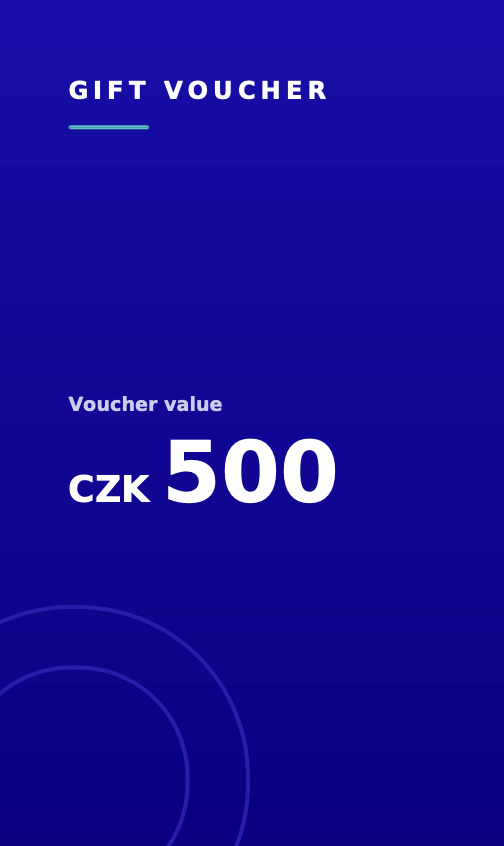
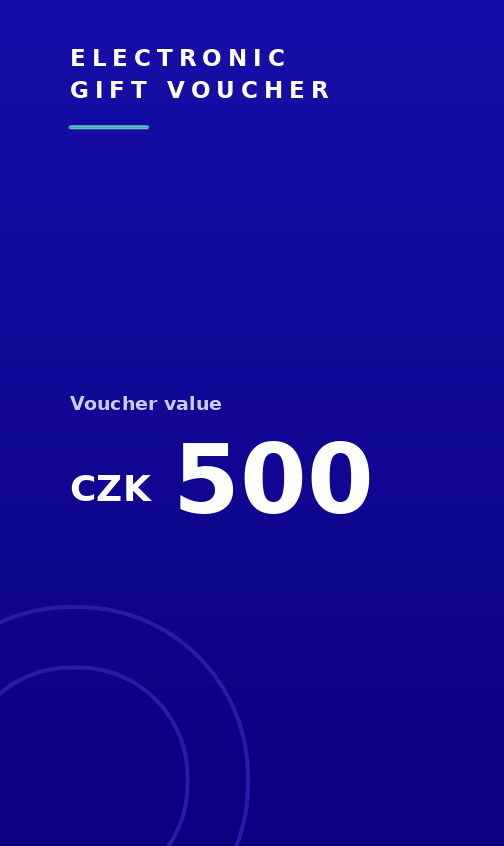
tweaked gift voucher demo data fixtures
- added a standalone electronic gift voucher (VOUCHER-E300) and a combined main variant (VOUCHER-X)
  with an electronic and a printed variant, so every delivery options case on the product detail has demo data
- the combined main variant keeps the default basic product type, the type of a main variant is resolved from its variants
- gift voucher constants are named by their role (main variant, variant, standalone) and every voucher
  has a reference resolved from a single catnum-to-reference map
- gift voucher descriptions no longer mention the email delivery, they are shared with the printed vouchers
- voucher images are assigned by product reference instead of product IDs that shifted with the new products,
  their titles distinguish electronic and printed vouchers and the main cards show the value range
- CategoryTest expects the new products in the Electronics category listing

diff --git a/app/src/DataFixtures/Demo/ProductDataFixture.php b/app/src/DataFixtures/Demo/ProductDataFixture.php
@@ -14,6 +14,7 @@ use App\Model\Transport\Transport;
 use Doctrine\Common\DataFixtures\DependentFixtureInterface;
 use Doctrine\ORM\EntityManagerInterface;
 use Doctrine\Persistence\ObjectManager;
+use InvalidArgumentException;
 use Override;
 use Ramsey\Uuid\Uuid;
 use Shopsys\FrameworkBundle\Component\DataFixture\AbstractReferenceFixture;
@@ -32,14 +33,37 @@ use Symfony\Component\Clock\DatePoint;
 class ProductDataFixture extends AbstractReferenceFixture implements DependentFixtureInterface
 {
     public const string PRODUCT_PREFIX = 'product_';
-    public const string PRODUCT_ELECTRONIC_GIFT_VOUCHER_1000 = 'product_electronic_gift_voucher_1000';
-    public const string PRODUCT_CATNUM_ELECTRONIC_GIFT_VOUCHER_CUSTOM = 'VOUCHER-M';
-    public const string PRODUCT_CATNUM_ELECTRONIC_GIFT_VOUCHER_500 = 'VOUCHER500';
-    public const string PRODUCT_CATNUM_ELECTRONIC_GIFT_VOUCHER_1000 = 'VOUCHER1000';
-    public const string PRODUCT_CATNUM_ELECTRONIC_GIFT_VOUCHER_2000 = 'VOUCHER2000';
-    public const string PRODUCT_CATNUM_PRINTED_GIFT_VOUCHER_1000 = 'VOUCHER-P1000';
+    public const string PRODUCT_ELECTRONIC_GIFT_VOUCHER_MAIN_VARIANT = 'product_electronic_gift_voucher_main_variant';
+    public const string PRODUCT_ELECTRONIC_GIFT_VOUCHER_VARIANT_500 = 'product_electronic_gift_voucher_variant_500';
+    public const string PRODUCT_ELECTRONIC_GIFT_VOUCHER_VARIANT_1000 = 'product_electronic_gift_voucher_variant_1000';
+    public const string PRODUCT_ELECTRONIC_GIFT_VOUCHER_VARIANT_2000 = 'product_electronic_gift_voucher_variant_2000';
+    public const string PRODUCT_COMBINED_GIFT_VOUCHER_MAIN_VARIANT = 'product_combined_gift_voucher_main_variant';
+    public const string PRODUCT_COMBINED_GIFT_VOUCHER_VARIANT_ELECTRONIC_1000 = 'product_combined_gift_voucher_variant_electronic_1000';
+    public const string PRODUCT_COMBINED_GIFT_VOUCHER_VARIANT_PRINTED_1000 = 'product_combined_gift_voucher_variant_printed_1000';
+    public const string PRODUCT_ELECTRONIC_GIFT_VOUCHER_STANDALONE_300 = 'product_electronic_gift_voucher_standalone_300';
+    public const string PRODUCT_PRINTED_GIFT_VOUCHER_STANDALONE_1000 = 'product_printed_gift_voucher_standalone_1000';
+    public const string PRODUCT_CATNUM_ELECTRONIC_GIFT_VOUCHER_MAIN_VARIANT = 'VOUCHER-M';
+    public const string PRODUCT_CATNUM_ELECTRONIC_GIFT_VOUCHER_VARIANT_500 = 'VOUCHER500';
+    public const string PRODUCT_CATNUM_ELECTRONIC_GIFT_VOUCHER_VARIANT_1000 = 'VOUCHER1000';
+    public const string PRODUCT_CATNUM_ELECTRONIC_GIFT_VOUCHER_VARIANT_2000 = 'VOUCHER2000';
+    public const string PRODUCT_CATNUM_COMBINED_GIFT_VOUCHER_MAIN_VARIANT = 'VOUCHER-X';
+    public const string PRODUCT_CATNUM_COMBINED_GIFT_VOUCHER_VARIANT_ELECTRONIC_1000 = 'VOUCHER-X1000E';
+    public const string PRODUCT_CATNUM_COMBINED_GIFT_VOUCHER_VARIANT_PRINTED_1000 = 'VOUCHER-X1000P';
+    public const string PRODUCT_CATNUM_ELECTRONIC_GIFT_VOUCHER_STANDALONE_300 = 'VOUCHER-E300';
+    public const string PRODUCT_CATNUM_PRINTED_GIFT_VOUCHER_STANDALONE_1000 = 'VOUCHER-P1000';
     public const string PRODUCT_CATNUM_A4TECH_MOUSE = '5960453';
     private const string UUID_NAMESPACE = '5d92301d-1583-4505-842a-27fe6854f587';
+    private const array GIFT_VOUCHER_REFERENCE_NAMES_BY_CATNUM = [
+        self::PRODUCT_CATNUM_ELECTRONIC_GIFT_VOUCHER_MAIN_VARIANT => self::PRODUCT_ELECTRONIC_GIFT_VOUCHER_MAIN_VARIANT,
+        self::PRODUCT_CATNUM_ELECTRONIC_GIFT_VOUCHER_VARIANT_500 => self::PRODUCT_ELECTRONIC_GIFT_VOUCHER_VARIANT_500,
+        self::PRODUCT_CATNUM_ELECTRONIC_GIFT_VOUCHER_VARIANT_1000 => self::PRODUCT_ELECTRONIC_GIFT_VOUCHER_VARIANT_1000,
+        self::PRODUCT_CATNUM_ELECTRONIC_GIFT_VOUCHER_VARIANT_2000 => self::PRODUCT_ELECTRONIC_GIFT_VOUCHER_VARIANT_2000,
+        self::PRODUCT_CATNUM_COMBINED_GIFT_VOUCHER_MAIN_VARIANT => self::PRODUCT_COMBINED_GIFT_VOUCHER_MAIN_VARIANT,
+        self::PRODUCT_CATNUM_COMBINED_GIFT_VOUCHER_VARIANT_ELECTRONIC_1000 => self::PRODUCT_COMBINED_GIFT_VOUCHER_VARIANT_ELECTRONIC_1000,
+        self::PRODUCT_CATNUM_COMBINED_GIFT_VOUCHER_VARIANT_PRINTED_1000 => self::PRODUCT_COMBINED_GIFT_VOUCHER_VARIANT_PRINTED_1000,
+        self::PRODUCT_CATNUM_ELECTRONIC_GIFT_VOUCHER_STANDALONE_300 => self::PRODUCT_ELECTRONIC_GIFT_VOUCHER_STANDALONE_300,
+        self::PRODUCT_CATNUM_PRINTED_GIFT_VOUCHER_STANDALONE_1000 => self::PRODUCT_PRINTED_GIFT_VOUCHER_STANDALONE_1000,
+    ];
 
     private int $productNo = 1;
 
@@ -4097,28 +4121,30 @@ class ProductDataFixture extends AbstractReferenceFixture implements DependentFi
     private function createGiftVoucherProducts(): void
     {
         $electronicGiftVoucherPricesByCatnum = [
-            self::PRODUCT_CATNUM_ELECTRONIC_GIFT_VOUCHER_CUSTOM => null,
-            self::PRODUCT_CATNUM_ELECTRONIC_GIFT_VOUCHER_500 => '500',
-            self::PRODUCT_CATNUM_ELECTRONIC_GIFT_VOUCHER_1000 => '1000',
-            self::PRODUCT_CATNUM_ELECTRONIC_GIFT_VOUCHER_2000 => '2000',
+            self::PRODUCT_CATNUM_ELECTRONIC_GIFT_VOUCHER_MAIN_VARIANT => null,
+            self::PRODUCT_CATNUM_ELECTRONIC_GIFT_VOUCHER_VARIANT_500 => '500',
+            self::PRODUCT_CATNUM_ELECTRONIC_GIFT_VOUCHER_VARIANT_1000 => '1000',
+            self::PRODUCT_CATNUM_ELECTRONIC_GIFT_VOUCHER_VARIANT_2000 => '2000',
+            self::PRODUCT_CATNUM_ELECTRONIC_GIFT_VOUCHER_STANDALONE_300 => '300',
+            self::PRODUCT_CATNUM_COMBINED_GIFT_VOUCHER_VARIANT_ELECTRONIC_1000 => '1000',
         ];
 
         foreach ($electronicGiftVoucherPricesByCatnum as $catnum => $price) {
-            $referenceName = $catnum === self::PRODUCT_CATNUM_ELECTRONIC_GIFT_VOUCHER_1000
-                ? self::PRODUCT_ELECTRONIC_GIFT_VOUCHER_1000
-                : null;
-
-            $this->createGiftVoucherProduct($catnum, $price, ProductTypeEnum::TYPE_ELECTRONIC_GIFT_VOUCHER, $referenceName);
+            $this->createGiftVoucherProduct($catnum, $price, ProductTypeEnum::TYPE_ELECTRONIC_GIFT_VOUCHER);
         }
 
-        $this->createGiftVoucherProduct(self::PRODUCT_CATNUM_PRINTED_GIFT_VOUCHER_1000, '1000', ProductTypeEnum::TYPE_PRINTED_GIFT_VOUCHER);
+        $this->createGiftVoucherProduct(self::PRODUCT_CATNUM_PRINTED_GIFT_VOUCHER_STANDALONE_1000, '1000', ProductTypeEnum::TYPE_PRINTED_GIFT_VOUCHER);
+        $this->createGiftVoucherProduct(self::PRODUCT_CATNUM_COMBINED_GIFT_VOUCHER_VARIANT_PRINTED_1000, '1000', ProductTypeEnum::TYPE_PRINTED_GIFT_VOUCHER);
+
+        // the product type of a main variant is never used, it is resolved from the variants
+        // so the card combining an electronic and a printed variant keeps the default basic type an administrator would end up with
+        $this->createGiftVoucherProduct(self::PRODUCT_CATNUM_COMBINED_GIFT_VOUCHER_MAIN_VARIANT, null, ProductTypeEnum::TYPE_BASIC);
     }
 
     private function createGiftVoucherProduct(
         string $catnum,
         ?string $price,
         string $productType,
-        ?string $referenceName = null,
     ): void {
         $productData = $this->productDemoDataFactory->createDefaultData($catnum);
 
@@ -4133,26 +4159,33 @@ class ProductDataFixture extends AbstractReferenceFixture implements DependentFi
 
         foreach ($this->domainsForDataFixtureProvider->getAllowedDemoDataDomains() as $domain) {
             $locale = $domain->getLocale();
-            $productData->name[$locale] = $this->getGiftVoucherProductName($productType, $price, $locale, $domain->getId());
-            $productData->shortDescriptions[$domain->getId()] = t('Gift voucher for purchases in our online store. The voucher is delivered by email after the order is paid and can be redeemed in the cart.', [], Translator::DATA_FIXTURES_TRANSLATION_DOMAIN, $locale);
-            $productData->descriptions[$domain->getId()] = t('Gift voucher for purchases in our online store. The voucher is delivered by email after the order is paid and can be redeemed in the cart. It applies to the entire assortment including transport and payment costs and can be used only once, in its full value.', [], Translator::DATA_FIXTURES_TRANSLATION_DOMAIN, $locale);
+            $productData->name[$locale] = $this->getGiftVoucherProductName($catnum, $productType, $price, $locale, $domain->getId());
+            $productData->shortDescriptions[$domain->getId()] = t('Gift voucher for purchases in our online store. The voucher can be redeemed in the cart.', [], Translator::DATA_FIXTURES_TRANSLATION_DOMAIN, $locale);
+            $productData->descriptions[$domain->getId()] = t('Gift voucher for purchases in our online store. The voucher can be redeemed in the cart. It applies to the entire assortment including transport and payment costs and can be used only once, in its full value.', [], Translator::DATA_FIXTURES_TRANSLATION_DOMAIN, $locale);
         }
 
         $product = $this->createProduct($productData);
 
-        if ($referenceName !== null) {
-            $this->addReference($referenceName, $product);
-        }
+        $this->addReference(self::GIFT_VOUCHER_REFERENCE_NAMES_BY_CATNUM[$catnum], $product);
     }
 
     private function getGiftVoucherProductName(
+        string $catnum,
         string $productType,
         ?string $price,
         string $locale,
         int $domainId,
     ): string {
-        if ($price === null) {
+        if ($catnum === self::PRODUCT_CATNUM_ELECTRONIC_GIFT_VOUCHER_MAIN_VARIANT) {
             return t('Electronic gift voucher', [], Translator::DATA_FIXTURES_TRANSLATION_DOMAIN, $locale);
+        }
+
+        if ($catnum === self::PRODUCT_CATNUM_COMBINED_GIFT_VOUCHER_MAIN_VARIANT) {
+            return t('Gift voucher - electronic or printed', [], Translator::DATA_FIXTURES_TRANSLATION_DOMAIN, $locale);
+        }
+
+        if ($price === null) {
+            throw new InvalidArgumentException(sprintf('Gift voucher "%s" needs a value to build its name', $catnum));
         }
 
         $domainCurrencyCode = $this->currencyFacade->getDomainDefaultCurrencyByDomainId($domainId)->getCode();
@@ -4201,10 +4234,14 @@ class ProductDataFixture extends AbstractReferenceFixture implements DependentFi
                 'SENCOR51',
                 'SENCOR60',
             ],
-            'VOUCHER-M' => [
-                'VOUCHER500',
-                'VOUCHER1000',
-                'VOUCHER2000',
+            self::PRODUCT_CATNUM_ELECTRONIC_GIFT_VOUCHER_MAIN_VARIANT => [
+                self::PRODUCT_CATNUM_ELECTRONIC_GIFT_VOUCHER_VARIANT_500,
+                self::PRODUCT_CATNUM_ELECTRONIC_GIFT_VOUCHER_VARIANT_1000,
+                self::PRODUCT_CATNUM_ELECTRONIC_GIFT_VOUCHER_VARIANT_2000,
+            ],
+            self::PRODUCT_CATNUM_COMBINED_GIFT_VOUCHER_MAIN_VARIANT => [
+                self::PRODUCT_CATNUM_COMBINED_GIFT_VOUCHER_VARIANT_ELECTRONIC_1000,
+                self::PRODUCT_CATNUM_COMBINED_GIFT_VOUCHER_VARIANT_PRINTED_1000,
             ],
         ];
     }

diff --git a/app/src/DataFixtures/Demo/ImageDataFixture.php b/app/src/DataFixtures/Demo/ImageDataFixture.php
@@ -377,26 +377,25 @@ class ImageDataFixture extends AbstractFileFixture implements DependentFixtureIn
             );
         }
 
-        $giftVoucherProductsIdsIndexedByImagesIds = [
-            741 => 155,
-            742 => 156,
-            743 => 157,
-            744 => 158,
-            745 => 159,
+        $giftVoucherProductReferenceNamesIndexedByImagesIds = [
+            741 => ProductDataFixture::PRODUCT_ELECTRONIC_GIFT_VOUCHER_MAIN_VARIANT,
+            742 => ProductDataFixture::PRODUCT_ELECTRONIC_GIFT_VOUCHER_VARIANT_500,
+            743 => ProductDataFixture::PRODUCT_ELECTRONIC_GIFT_VOUCHER_VARIANT_1000,
+            744 => ProductDataFixture::PRODUCT_ELECTRONIC_GIFT_VOUCHER_VARIANT_2000,
+            745 => ProductDataFixture::PRODUCT_PRINTED_GIFT_VOUCHER_STANDALONE_1000,
+            746 => ProductDataFixture::PRODUCT_ELECTRONIC_GIFT_VOUCHER_STANDALONE_300,
+            747 => ProductDataFixture::PRODUCT_COMBINED_GIFT_VOUCHER_MAIN_VARIANT,
+            748 => ProductDataFixture::PRODUCT_COMBINED_GIFT_VOUCHER_VARIANT_ELECTRONIC_1000,
+            749 => ProductDataFixture::PRODUCT_COMBINED_GIFT_VOUCHER_VARIANT_PRINTED_1000,
         ];
 
-        foreach ($giftVoucherProductsIdsIndexedByImagesIds as $imageId => $productId) {
-            $names = [];
-
-            foreach ($this->domainsForDataFixtureProvider->getAllowedDemoDataLocales() as $locale) {
-                $names[$locale] = 'Product ' . $productId . ' image';
-            }
-
+        foreach ($giftVoucherProductReferenceNamesIndexedByImagesIds as $imageId => $productReferenceName) {
+            $product = $this->getReference($productReferenceName, Product::class);
             $this->saveImageIntoDb(
-                $productId,
+                $product->getId(),
                 'product',
                 $imageId,
-                $names,
+                $this->imageDataFixtureNameFactory->createProductImageNames($product, false, Image::DEFAULT_IMAGE_POSITION),
                 null,
                 Image::DEFAULT_IMAGE_POSITION,
                 self::IMAGE_TYPE_PNG,

diff --git a/app/tests/FrontendApiBundle/Functional/Product/ProductsFilteringOptionsTest.php b/app/tests/FrontendApiBundle/Functional/Product/ProductsFilteringOptionsTest.php
@@ -18,7 +18,6 @@ use Ramsey\Uuid\Uuid;
 use Shopsys\FrameworkBundle\Component\ArrayUtils\ArraySorterHelper;
 use Shopsys\FrameworkBundle\Component\String\TransformStringHelper;
 use Shopsys\FrameworkBundle\Component\Translation\Translator;
-use Shopsys\FrameworkBundle\Model\Pricing\PricingSetting;
 use Shopsys\FrameworkBundle\Model\Product\Parameter\Parameter;
 use Shopsys\FrameworkBundle\Model\Product\Parameter\ParameterFacade;
 use Shopsys\FrameworkBundle\Model\Product\Parameter\ParameterValue;
@@ -52,12 +51,8 @@ class ProductsFilteringOptionsTest extends GraphQlTestCase
     {
         $category = $this->getReference(CategoryDataFixture::CATEGORY_ELECTRONICS, Category::class);
 
-        if ($this->setting->get(PricingSetting::INPUT_PRICE_TYPE) === PricingSetting::PRICE_TYPE_WITH_VAT) {
-            $minimalPrice = $this->getFormattedMoneyAmountWithVatConvertedToDomainDefaultCurrency('319');
-        } else {
-            $minimalPrice = $this->getFormattedMoneyAmountWithVatConvertedToDomainDefaultCurrency('318.85');
-        }
-
+        // the cheapest product is the standalone electronic gift voucher with a zero VAT, so the input price type plays no role
+        $minimalPrice = $this->getFormattedMoneyAmountWithVatConvertedToDomainDefaultCurrency('300');
         $maximalPrice = $this->getFormattedMoneyAmountWithVatConvertedToDomainDefaultCurrency('31448');
 
         $materials = [
@@ -330,7 +325,7 @@ class ProductsFilteringOptionsTest extends GraphQlTestCase
         ]);
         $data = $this->getResponseDataForGraphQlType($response, 'category');
 
-        $this->assertSame(6, $data['products']['productFilterOptions']['inStock']);
+        $this->assertSame(8, $data['products']['productFilterOptions']['inStock']);
         $this->assertSame($minimalPrice, $data['products']['productFilterOptions']['minimalPrice']);
         $this->assertSame($maximalPrice, $data['products']['productFilterOptions']['maximalPrice']);
 

diff --git a/app/tests/FrontendApiBundle/Functional/Cart/GiftVoucherRedemptionTest.php b/app/tests/FrontendApiBundle/Functional/Cart/GiftVoucherRedemptionTest.php
@@ -139,7 +139,7 @@ final class GiftVoucherRedemptionTest extends GraphQlTestCase
 
     public function testPromoCodeIsNotApplicableToCartWithOnlyGiftVoucherProducts(): void
     {
-        $voucherProduct = $this->getReference(ProductDataFixture::PRODUCT_ELECTRONIC_GIFT_VOUCHER_1000, Product::class);
+        $voucherProduct = $this->getReference(ProductDataFixture::PRODUCT_ELECTRONIC_GIFT_VOUCHER_VARIANT_1000, Product::class);
         $response = $this->getResponseContentForGql(__DIR__ . '/../_graphql/mutation/AddToCartMutation.graphql', [
             'cartUuid' => null,
             'productUuid' => $voucherProduct->getUuid(),
@@ -171,7 +171,7 @@ final class GiftVoucherRedemptionTest extends GraphQlTestCase
 
         $totalDiscountPriceBeforeAddingVoucherProduct = $this->getCartPrices()['totalDiscountPrice']['priceWithVat'];
 
-        $this->addProductToFixtureCart($this->getReference(ProductDataFixture::PRODUCT_ELECTRONIC_GIFT_VOUCHER_1000, Product::class));
+        $this->addProductToFixtureCart($this->getReference(ProductDataFixture::PRODUCT_ELECTRONIC_GIFT_VOUCHER_VARIANT_1000, Product::class));
 
         $totalDiscountPriceAfterAddingVoucherProduct = $this->getCartPrices()['totalDiscountPrice']['priceWithVat'];
 
@@ -182,7 +182,7 @@ final class GiftVoucherRedemptionTest extends GraphQlTestCase
     {
         $totalPriceWithoutVoucherProduct = Money::create($this->getCartPrices()['totalPrice']['priceWithVat']);
 
-        $this->addProductToFixtureCart($this->getReference(ProductDataFixture::PRODUCT_ELECTRONIC_GIFT_VOUCHER_1000, Product::class));
+        $this->addProductToFixtureCart($this->getReference(ProductDataFixture::PRODUCT_ELECTRONIC_GIFT_VOUCHER_VARIANT_1000, Product::class));
 
         $totalPriceWithVat = Money::create($this->getCartPrices()['totalPrice']['priceWithVat']);
         $giftVoucherProductItemsPrice = $totalPriceWithVat->subtract($totalPriceWithoutVoucherProduct);

diff --git a/app/tests/FrontendApiBundle/Functional/GiftVoucher/GiftVoucherOrderFlowTest.php b/app/tests/FrontendApiBundle/Functional/GiftVoucher/GiftVoucherOrderFlowTest.php
@@ -116,7 +116,7 @@ final class GiftVoucherOrderFlowTest extends GraphQlWithLoginTestCase
             );
             self::assertTrue($giftVoucher->isUnredeemed());
             self::assertSame($order->getEmail(), $giftVoucher->getCustomerEmail());
-            self::assertSame(ProductDataFixture::PRODUCT_CATNUM_ELECTRONIC_GIFT_VOUCHER_1000, $giftVoucher->getProductCatnum());
+            self::assertSame(ProductDataFixture::PRODUCT_CATNUM_ELECTRONIC_GIFT_VOUCHER_VARIANT_1000, $giftVoucher->getProductCatnum());
             self::assertSame($voucherOrderItem->getName(), $giftVoucher->getProductName());
             self::assertSame($order->getDomainId(), $giftVoucher->getDomainId());
             self::assertTrue($giftVoucher->getValueWithVat()->equals($voucherOrderItemUnitPriceWithVat));
@@ -410,7 +410,7 @@ final class GiftVoucherOrderFlowTest extends GraphQlWithLoginTestCase
 
     private function getElectronicGiftVoucherProduct(): Product
     {
-        return $this->getReference(ProductDataFixture::PRODUCT_ELECTRONIC_GIFT_VOUCHER_1000, Product::class);
+        return $this->getReference(ProductDataFixture::PRODUCT_ELECTRONIC_GIFT_VOUCHER_VARIANT_1000, Product::class);
     }
 
     private function createUnredeemedGiftVoucherWithValue(Money $value): GiftVoucher

diff --git a/app/tests/App/Functional/Model/Product/ProductOnCurrentDomainElasticFacadeCountDataTest.php b/app/tests/App/Functional/Model/Product/ProductOnCurrentDomainElasticFacadeCountDataTest.php
@@ -512,7 +512,7 @@ class ProductOnCurrentDomainElasticFacadeCountDataTest extends ParameterTransact
     {
         $filterData = new ProductFilterData();
         $countData = new ProductFilterCountData();
-        $countData->countInStock = 6;
+        $countData->countInStock = 7;
         $countData->countByBrandId = [
             $this->getReference(BrandDataFixture::BRAND_CANON, Brand::class)->getId() => 6,
             $this->getReference(BrandDataFixture::BRAND_HP, Brand::class)->getId() => 2,
@@ -607,7 +607,7 @@ class ProductOnCurrentDomainElasticFacadeCountDataTest extends ParameterTransact
         $filterData = new ProductFilterData();
         $filterData->inStock = true;
         $countData = new ProductFilterCountData();
-        $countData->countInStock = 6;
+        $countData->countInStock = 7;
         $countData->countByBrandId = [
             $this->getReference(BrandDataFixture::BRAND_CANON, Brand::class)->getId() => 4,
             $this->getReference(BrandDataFixture::BRAND_HP, Brand::class)->getId() => 1,

diff --git a/app/tests/FrontendApiBundle/Functional/Category/CategoryTest.php b/app/tests/FrontendApiBundle/Functional/Category/CategoryTest.php
@@ -162,6 +162,8 @@ class CategoryTest extends GraphQlTestCase
                 $locale,
             ),
             t('Electronic gift voucher', [], Translator::DATA_FIXTURES_TRANSLATION_DOMAIN, $locale),
+            $this->giftVoucherProductNameTestHelper->getExpectedGiftVoucherProductName(ProductTypeEnum::TYPE_ELECTRONIC_GIFT_VOUCHER, '300', $locale, Domain::FIRST_DOMAIN_ID),
+            t('Gift voucher - electronic or printed', [], Translator::DATA_FIXTURES_TRANSLATION_DOMAIN, $locale),
             $this->giftVoucherProductNameTestHelper->getExpectedGiftVoucherProductName(ProductTypeEnum::TYPE_PRINTED_GIFT_VOUCHER, '1000', $locale, Domain::FIRST_DOMAIN_ID),
             t('Samsung Smart TV 3+1 Promo Pack', [], Translator::DATA_FIXTURES_TRANSLATION_DOMAIN, $locale),
             t('47" LG 47LA790V (FHD)', [], Translator::DATA_FIXTURES_TRANSLATION_DOMAIN, $locale),
